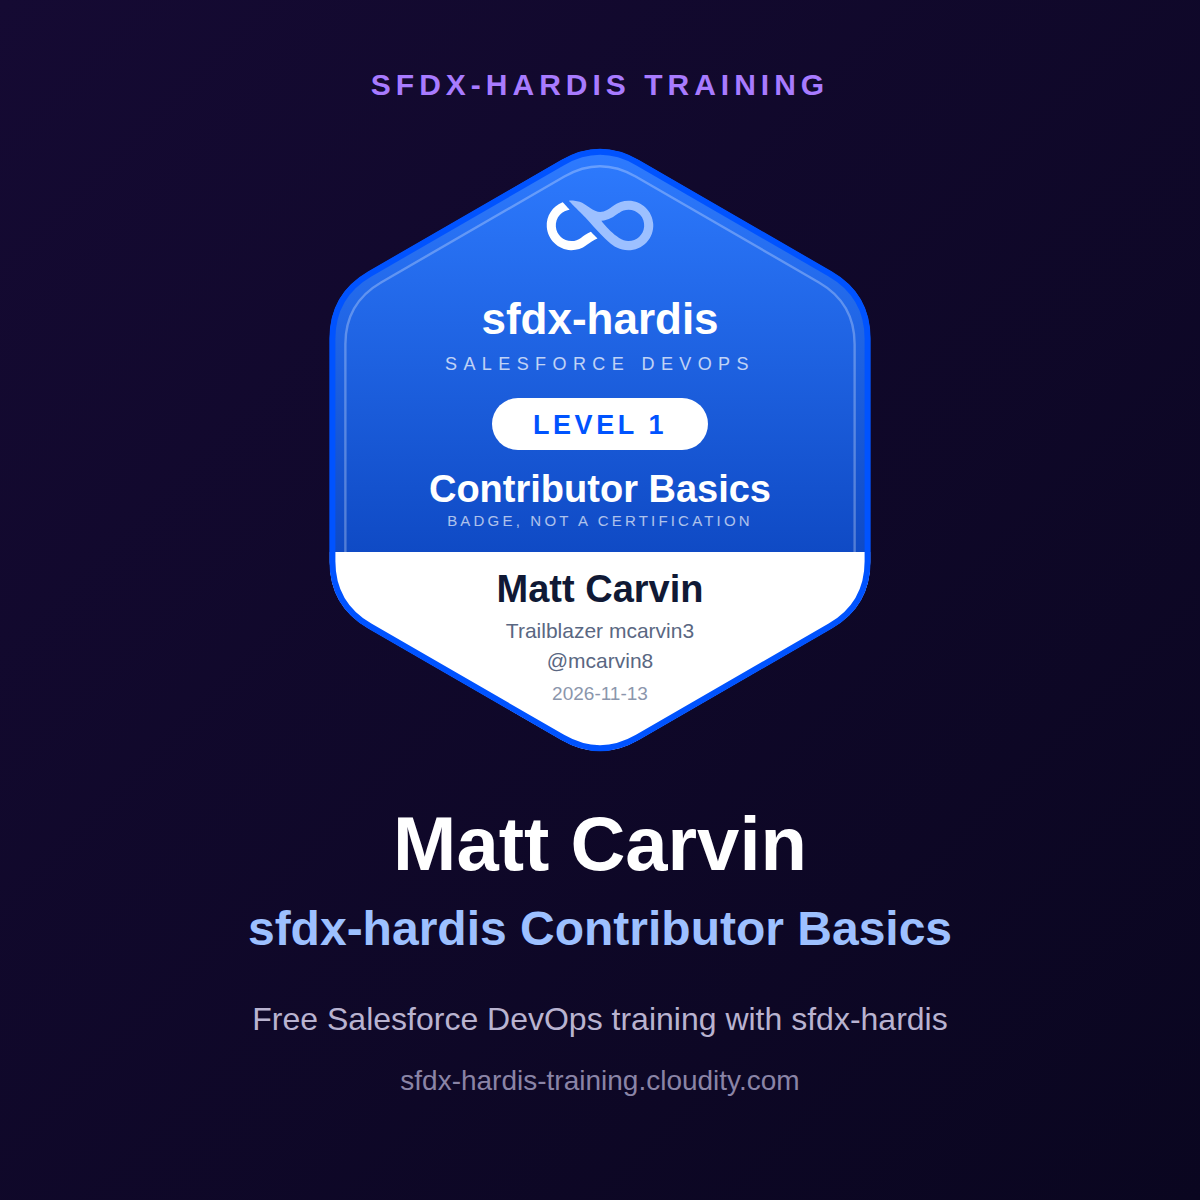
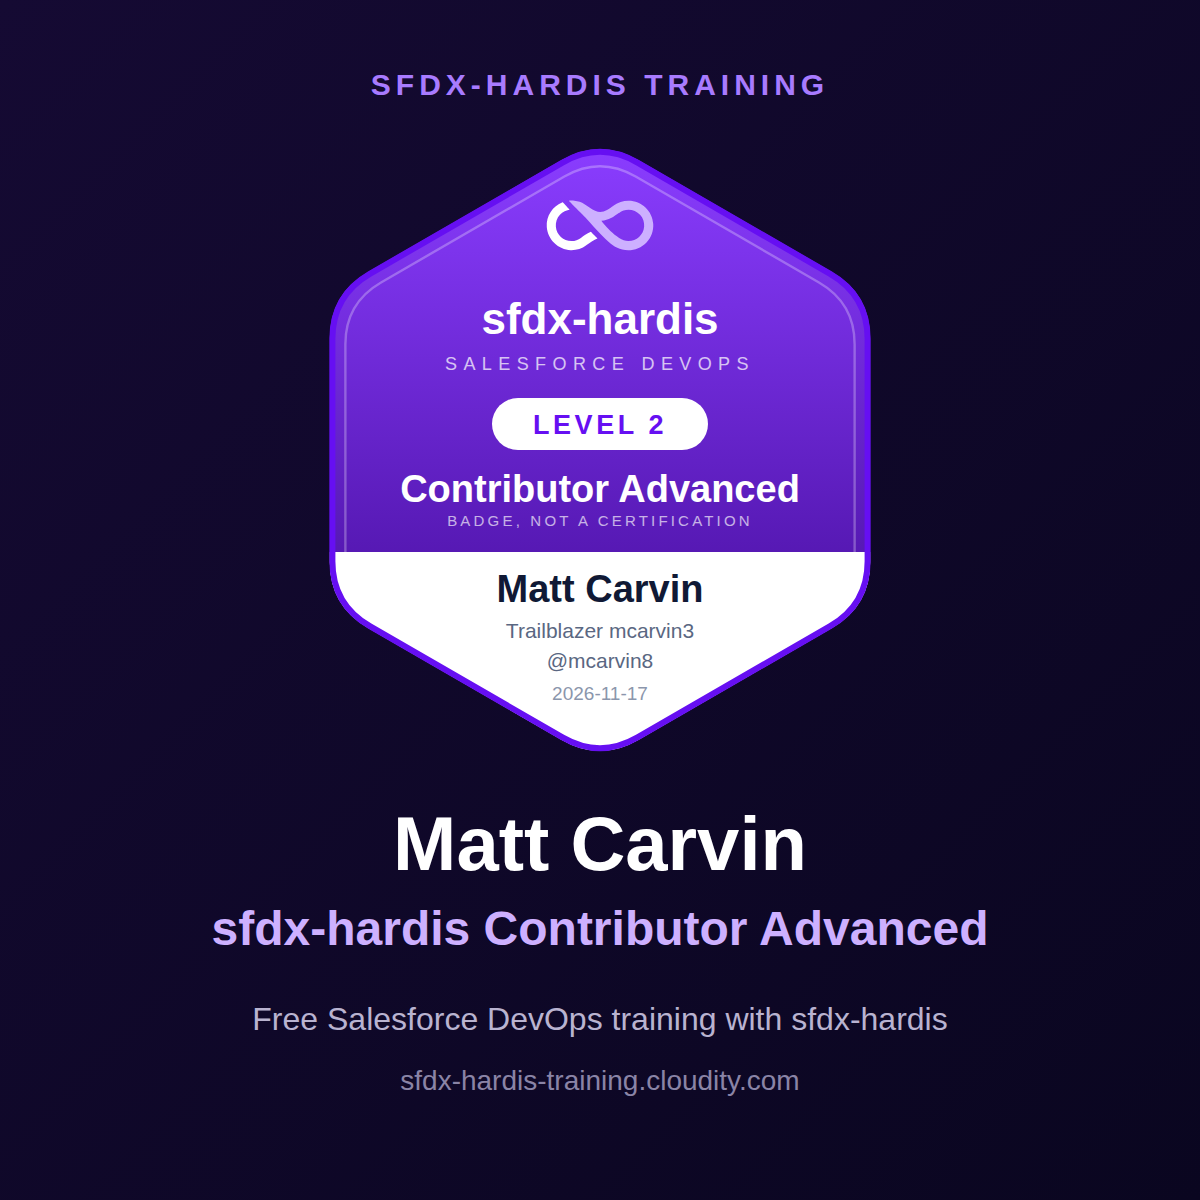
badge: level 2 for mcarvin3 (mcarvin8)

diff --git a/STATS.md b/STATS.md
@@ -2,7 +2,7 @@
 
 # Course statistics
 
-Read every Monday and after every badge awarded, from the public repositories of the 114 learners who set up the course, and from the badges they claimed.
+Read every Monday and after every badge awarded, from the public repositories of the 115 learners who set up the course, and from the badges they claimed.
 Last update: 2026-11-17.
 
 ## Started and completed
@@ -11,8 +11,8 @@ A level is started when its first branch exists in the learner's repository, and
 
 | Level | Started | Share of learners | Completed | Share of started |
 |---|---|---|---|---|
-| Level 1 - Contributor basics | 112 | 98% | 78 | 70% |
-| Level 2 - Contributor advanced | 60 | 53% | 37 | 62% |
+| Level 1 - Contributor basics | 113 | 98% | 78 | 69% |
+| Level 2 - Contributor advanced | 62 | 54% | 38 | 61% |
 | Level 3 - Release Manager | 39 | 34% | 20 | 51% |
 
 ## Time spent
@@ -22,7 +22,7 @@ The median time of the learners who went through, next to the estimate each lab 
 | Level | First estimate | Median | Fastest | Learners |
 |---|---|---|---|---|
 | Level 1 - Contributor basics | 1 h 30 | 1 h 27 | 33 min | 71 |
-| Level 2 - Contributor advanced | 4 h | 8 h 09 | 4 h 03 | 33 |
+| Level 2 - Contributor advanced | 4 h | 8 h 08 | 3 h 52 | 34 |
 | Level 3 - Release Manager | 6 h 55 | 10 h 11 | 2 h 56 | 14 |
 
 ### Level 1 - Contributor basics
@@ -36,14 +36,14 @@ The median time of the learners who went through, next to the estimate each lab 
 
 | Labs | First estimate | Median | Fastest | Learners |
 |---|---|---|---|---|
-| Labs 2.1 and 2.2 | 40 min | 1 h 12 | 26 min | 48 |
-| Lab 2.3 | 30 min | 51 min | 15 min | 47 |
-| Lab 2.4 | 30 min | 1 h 09 | 20 min | 40 |
-| Lab 2.5 | 30 min | 26 min | 7 min | 39 |
-| Lab 2.6 | 25 min | 28 min | 10 min | 39 |
-| Lab 2.7 | 35 min | 47 min | 13 min | 37 |
-| Lab 2.8 | 20 min | 27 min | 7 min | 36 |
-| Lab 2.9 | 30 min | 48 min | 12 min | 37 |
+| Labs 2.1 and 2.2 | 40 min | 1 h 12 | 26 min | 50 |
+| Lab 2.3 | 30 min | 51 min | 15 min | 49 |
+| Lab 2.4 | 30 min | 1 h 09 | 20 min | 41 |
+| Lab 2.5 | 30 min | 26 min | 7 min | 40 |
+| Lab 2.6 | 25 min | 27 min | 10 min | 40 |
+| Lab 2.7 | 35 min | 46 min | 13 min | 38 |
+| Lab 2.8 | 20 min | 27 min | 7 min | 37 |
+| Lab 2.9 | 30 min | 48 min | 12 min | 38 |
 
 ### Level 3 - Release Manager
 
@@ -70,15 +70,15 @@ From the learners who ran **Check my work** at the end of each lab: their receip
 | Lab 1.5 | 20 min | 16 min | 5 min | 42 |
 | Lab 1.6 | 20 min | 19 min | 5 min | 41 |
 | Lab 1.7 | 25 min | 27 min | 7 min | 44 |
-| Lab 2.1 | 15 min | 37 min | 12 min | 17 |
-| Lab 2.2 | 25 min | 35 min | 17 min | 17 |
-| Lab 2.3 | 30 min | 42 min | 15 min | 17 |
-| Lab 2.4 | 30 min | 1 h 10 | 20 min | 17 |
-| Lab 2.5 | 30 min | 26 min | 9 min | 17 |
-| Lab 2.6 | 25 min | 29 min | 10 min | 17 |
-| Lab 2.7 | 35 min | 43 min | 25 min | 17 |
-| Lab 2.8 | 20 min | 27 min | 10 min | 17 |
-| Lab 2.9 | 30 min | 48 min | 19 min | 17 |
+| Lab 2.1 | 15 min | 35 min | 12 min | 18 |
+| Lab 2.2 | 25 min | 35 min | 17 min | 18 |
+| Lab 2.3 | 30 min | 42 min | 15 min | 18 |
+| Lab 2.4 | 30 min | 1 h 08 | 20 min | 18 |
+| Lab 2.5 | 30 min | 25 min | 9 min | 18 |
+| Lab 2.6 | 25 min | 28 min | 10 min | 18 |
+| Lab 2.7 | 35 min | 42 min | 22 min | 18 |
+| Lab 2.8 | 20 min | 25 min | 10 min | 18 |
+| Lab 2.9 | 30 min | 47 min | 19 min | 18 |
 | Lab 3.1 | 50 min | 1 h 39 | 26 min | 14 |
 | Lab 3.2 | 25 min | 26 min | 12 min | 15 |
 | Lab 3.3 | 45 min | 1 h 15 | 22 min | 15 |

diff --git a/labs/fr/level-2-contributor-advanced/index.md b/labs/fr/level-2-contributor-advanced/index.md
@@ -4,12 +4,12 @@ description: "Affrontez ce que les vraies livraisons Salesforce vous envoient : 
 id: l2-home
 level: 2
 lang: fr
-source_rev: "0b33f8e6325c5bd2c5877fc32c020f83ab16a9fe"
+source_rev: "e197c91bfce4f8e9d21bdf4f83ea3dda7676717a"
 ---
 
 # Niveau 2 - Contributeur Salesforce DevOps avancé
 
-**Durée** : environ 5 h 45.<!-- observed --> Observé sur les Labs 2.1 à 2.9 : médiane 8 h 09, 33 participants, le plus rapide 4 h 03.<!-- /observed -->
+**Durée** : environ 5 h 45.<!-- observed --> Observé sur les Labs 2.1 à 2.9 : médiane 8 h 08, 34 participants, le plus rapide 3 h 52.<!-- /observed -->
 
 **Prérequis** : le [Niveau 1](../level-1-contributor-basics/index.md). Pas facultatif : chaque lab
 d'ici suppose que la boucle est automatique pour vous.
@@ -36,7 +36,7 @@ jours.
 | [2.1](2-1-backpromote-your-teammates-work.md)                         | Backpromote : remettre votre org de dev au niveau de l'équipe           | 35 min |
 | [2.2](2-2-fix-a-missing-dependency-deployment-error.md)               | Corriger une erreur de déploiement due à une dépendance manquante       | 35 min |
 | [2.3](2-3-fix-broken-records-with-an-apex-deployment-action.md)       | Réparer des enregistrements cassés avec une deployment action Apex      | 40 min |
-| [2.4](2-4-ship-reference-data-and-a-batch-with-deployment-actions.md) | Livrer des données de référence et un batch avec des deployment actions | 1 h 10 |
+| [2.4](2-4-ship-reference-data-and-a-batch-with-deployment-actions.md) | Livrer des données de référence et un batch avec des deployment actions | 1 h 05 |
 | [2.5](2-5-pass-code-quality-and-apex-test-coverage.md)                | Passer la barrière de qualité de code et la couverture de tests Apex    | 25 min |
 | [2.6](2-6-permission-sets-and-profiles.md)                            | Permission sets, profils, et pourquoi une autorisation disparaît        | 25 min |
 | [2.7](2-7-resolve-a-git-merge-conflict.md)                            | Résoudre un conflit de merge Git avec un collègue                       | 40 min |

diff --git a/labs/en/level-2-contributor-advanced/index.md b/labs/en/level-2-contributor-advanced/index.md
@@ -8,7 +8,7 @@ lang: en
 
 # Level 2 - Salesforce DevOps contributor advanced
 
-**Time**: about 5 h 45.<!-- observed --> Observed on Labs 2.1 to 2.9: median 8 h 09, 33 learners, fastest 4 h 03.<!-- /observed -->
+**Time**: about 5 h 45.<!-- observed --> Observed on Labs 2.1 to 2.9: median 8 h 08, 34 learners, fastest 3 h 52.<!-- /observed -->
 
 **Before you start**: [Level 1](../level-1-contributor-basics/index.md). Not optional: every lab here assumes the loop
 is automatic for you.
@@ -33,7 +33,7 @@ something breaks, you know where to look and what to do, and you lose minutes in
 | [2.1](2-1-backpromote-your-teammates-work.md)                         | Backpromote: catch your dev org up with the team        | 35 min |
 | [2.2](2-2-fix-a-missing-dependency-deployment-error.md)               | Fix a deployment error caused by a missing dependency   | 35 min |
 | [2.3](2-3-fix-broken-records-with-an-apex-deployment-action.md)       | Fix broken records with an Apex deployment action       | 40 min |
-| [2.4](2-4-ship-reference-data-and-a-batch-with-deployment-actions.md) | Ship reference data and a batch with deployment actions | 1 h 10 |
+| [2.4](2-4-ship-reference-data-and-a-batch-with-deployment-actions.md) | Ship reference data and a batch with deployment actions | 1 h 05 |
 | [2.5](2-5-pass-code-quality-and-apex-test-coverage.md)                | Pass the code quality gate and Apex test coverage       | 25 min |
 | [2.6](2-6-permission-sets-and-profiles.md)                            | Permission sets, profiles and why a grant disappears    | 25 min |
 | [2.7](2-7-resolve-a-git-merge-conflict.md)                            | Resolve a Git merge conflict with a teammate            | 40 min |

diff --git a/labs/fr/level-2-contributor-advanced/2-1-backpromote-your-teammates-work.md b/labs/fr/level-2-contributor-advanced/2-1-backpromote-your-teammates-work.md
@@ -5,7 +5,7 @@ description: "Votre org de développement est en retard sur integration. Faites-
 level: 2
 lab: 1
 lang: fr
-source_rev: "87368b7e85b3dd8cf90b33b28e998314c23dce63"
+source_rev: "9cff159c29f579f3ff8de94876a4d70a0870c0dc"
 screenshots:
   - annotated/vscode/sidebar-commands-custom-menu-2--training-menu
   - annotated/web/github-pr-files
@@ -27,7 +27,7 @@ depends_on:
 
 **Niveau** : 2 Contributeur avancé
 
-**Durée** : ~35 min<!-- observed --> (observé : médiane 37 min, 17 participants, le plus rapide 12 min)<!-- /observed -->
+**Durée** : ~35 min<!-- observed --> (observé : médiane 35 min, 18 participants, le plus rapide 12 min)<!-- /observed -->
 
 **Vous allez** : rapatrier dans votre propre org de dev la story mergée par un collègue, décider
 quoi garder quand l'outil vous le demande, et apprendre ce qu'un backpromote ne fera jamais pour

diff --git a/labs/fr/level-2-contributor-advanced/2-7-resolve-a-git-merge-conflict.md b/labs/fr/level-2-contributor-advanced/2-7-resolve-a-git-merge-conflict.md
@@ -5,7 +5,7 @@ description: "Une collègue a mergé en premier sur le même flow et le même pe
 level: 2
 lab: 7
 lang: fr
-source_rev: "41a4a39bbd93099266d46fa9466632374ac687d0"
+source_rev: "2b7c4314c8838edefda7501329b6d42bfc67cd37"
 screenshots:
   - annotated/salesforce/flow-builder-assign-crew
   - annotated/salesforce/flow-builder-assign-crew-full
@@ -30,7 +30,7 @@ depends_on:
 
 **Niveau** : 2 Contributeur avancé
 
-**Durée** : ~40 min<!-- observed --> (observé : médiane 43 min, 17 participants, le plus rapide 25 min)<!-- /observed -->
+**Durée** : ~40 min<!-- observed --> (observé : médiane 42 min, 18 participants, le plus rapide 22 min)<!-- /observed -->
 
 **Vous allez** : affronter un vrai conflit de merge sur deux fichiers qui entrent en conflit de façon
 très différente, et résoudre les deux sans perdre le travail de personne.

diff --git a/labs/fr/level-2-contributor-advanced/2-2-fix-a-missing-dependency-deployment-error.md b/labs/fr/level-2-contributor-advanced/2-2-fix-a-missing-dependency-deployment-error.md
@@ -5,7 +5,7 @@ description: "Modifiez un flow Salesforce existant, puis lisez correctement un c
 level: 2
 lab: 2
 lang: fr
-source_rev: "59a43fbde03c27fbe7bbbb6d3d62f520c716c652"
+source_rev: "60791fb57f7be032daae1582b886c3de72642db8"
 screenshots:
   - annotated/vscode/package-xml-filtered
   - annotated/vscode/editor-field-file
@@ -31,7 +31,7 @@ depends_on:
 
 **Niveau** : 2 Contributeur avancé
 
-**Durée** : ~35 min<!-- observed --> (observé : médiane 35 min, 17 participants, le plus rapide 17 min)<!-- /observed -->
+**Durée** : ~35 min<!-- observed --> (observé : médiane 35 min, 18 participants, le plus rapide 17 min)<!-- /observed -->
 
 **Vous allez** : modifier un flow qui tourne déjà en production, rencontrer votre premier contrôle de
 déploiement en échec, lire l'erreur correctement, et trouver ce que votre package a oublié.

diff --git a/labs/fr/level-2-contributor-advanced/2-8-recover-from-committing-the-wrong-metadata.md b/labs/fr/level-2-contributor-advanced/2-8-recover-from-committing-the-wrong-metadata.md
@@ -5,7 +5,7 @@ description: "Vous avez publié bien plus que votre story. Voyez ce que cela fai
 level: 2
 lab: 8
 lang: fr
-source_rev: "97c4635f37b0dbcd15da04a7a95829d07efc0bea"
+source_rev: "d48739167f39ed33b1e66f483f10aa25bef2ebdd"
 screenshots:
   - annotated/vscode/pipeline-cards--new-user-story
   - annotated/vscode/metadata-retriever-recent-changes--pick-rows
@@ -23,7 +23,7 @@ depends_on:
 
 **Niveau** : 2 Contributeur avancé
 
-**Durée** : ~25 min<!-- observed --> (observé : médiane 27 min, 17 participants, le plus rapide 10 min)<!-- /observed -->
+**Durée** : ~25 min<!-- observed --> (observé : médiane 25 min, 18 participants, le plus rapide 10 min)<!-- /observed -->
 
 **Vous allez** : sur-sélectionner exprès au moment de publier, voir ce que cela fait à une Pull
 Request, et apprendre les deux chemins de récupération.

diff --git a/labs/fr/level-2-contributor-advanced/2-5-pass-code-quality-and-apex-test-coverage.md b/labs/fr/level-2-contributor-advanced/2-5-pass-code-quality-and-apex-test-coverage.md
@@ -5,7 +5,7 @@ description: "Corrigez une trouvaille PMD et la couverture de code Apex qui bloq
 level: 2
 lab: 5
 lang: fr
-source_rev: "2f386b1b9dd5e5ad648ba643f272bc589ea1db70"
+source_rev: "e7d0a2446c0b2b4151de9d0e4a71a1148036e382"
 screenshots:
   - annotated/vscode/pipeline-cards--new-user-story
   - annotated/vscode/org-monitoring--apex-tests
@@ -21,7 +21,7 @@ depends_on:
 
 **Niveau** : 2 Contributeur avancé
 
-**Durée** : ~25 min<!-- observed --> (observé : médiane 26 min, 17 participants, le plus rapide 9 min)<!-- /observed -->
+**Durée** : ~25 min<!-- observed --> (observé : médiane 25 min, 18 participants, le plus rapide 9 min)<!-- /observed -->
 
 **Vous allez** : être bloqué deux fois par des robots, corriger les deux correctement plutôt que de
 les contourner, et apprendre à lancer les contrôles avant de pousser.

diff --git a/labs/fr/level-2-contributor-advanced/2-4-ship-reference-data-and-a-batch-with-deployment-actions.md b/labs/fr/level-2-contributor-advanced/2-4-ship-reference-data-and-a-batch-with-deployment-actions.md
@@ -5,7 +5,7 @@ description: "Un déploiement vert n'est pas une fonctionnalité qui marche. Liv
 level: 2
 lab: 4
 lang: fr
-source_rev: "732b2aba6858e0de45bba94f23b5f9bdf308a104"
+source_rev: "b8809f4b97eeb1827296e6016d7f4b615f2369de"
 screenshots:
   - annotated/vscode/sidebar-commands-custom-menu-2--lab-records
   - annotated/salesforce/crew-capacity-records
@@ -28,7 +28,7 @@ depends_on:
 
 **Niveau** : 2 Contributeur avancé
 
-**Durée** : ~1 h 10<!-- observed --> (observé : médiane 1 h 10, 17 participants, le plus rapide 20 min)<!-- /observed -->
+**Durée** : ~1 h 05<!-- observed --> (observé : médiane 1 h 08, 18 participants, le plus rapide 20 min)<!-- /observed -->
 
 **Vous allez** : rencontrer la pire espèce d'échec, celle où rien n'échoue, et la corriger avec trois
 deployment actions de trois types différents.

diff --git a/labs/fr/level-2-contributor-advanced/2-6-permission-sets-and-profiles.md b/labs/fr/level-2-contributor-advanced/2-6-permission-sets-and-profiles.md
@@ -5,7 +5,7 @@ description: "Une permission accordée sur un profil s'évapore après un déplo
 level: 2
 lab: 6
 lang: fr
-source_rev: "f1de18928b5fd327d784e4e2f6925e796c693e36"
+source_rev: "6bb9d05826efb3328a24a025a54a155e9bc5c48e"
 screenshots:
   - annotated/vscode/pipeline-cards--new-user-story
   - annotated/vscode/pipeline-packages-menu--package-xml
@@ -22,7 +22,7 @@ depends_on:
 
 **Niveau** : 2 Contributeur avancé
 
-**Durée** : ~25 min<!-- observed --> (observé : médiane 29 min, 17 participants, le plus rapide 10 min)<!-- /observed -->
+**Durée** : ~25 min<!-- observed --> (observé : médiane 28 min, 18 participants, le plus rapide 10 min)<!-- /observed -->
 
 **Vous allez** : courir après une permission qui s'évapore entre un déploiement vert et l'org cible,
 et découvrir qu'elle a été retirée exprès.

diff --git a/labs/fr/level-2-contributor-advanced/2-3-fix-broken-records-with-an-apex-deployment-action.md b/labs/fr/level-2-contributor-advanced/2-3-fix-broken-records-with-an-apex-deployment-action.md
@@ -5,7 +5,7 @@ description: "Rendre un champ obligatoire se déploie au vert et casse les enreg
 level: 2
 lab: 3
 lang: fr
-source_rev: "9de9ce94b7ca17001cebf9a2f0b9759a4f86b7ed"
+source_rev: "a4ed59101c00cfd9479e4aead29dd6717022f30f"
 screenshots:
   - annotated/vscode/pipeline-cards--my-pull-request
   - annotated/vscode/pipeline-cards--new-user-story
@@ -24,7 +24,7 @@ depends_on:
 
 **Niveau** : 2 Contributeur avancé
 
-**Durée** : ~40 min<!-- observed --> (observé : médiane 42 min, 17 participants, le plus rapide 15 min)<!-- /observed -->
+**Durée** : ~40 min<!-- observed --> (observé : médiane 42 min, 18 participants, le plus rapide 15 min)<!-- /observed -->
 
 **Vous allez** : rencontrer un échec qu'aucune correction de métadonnée ne résout, et découvrir
 l'outil qui existe pour cela : une deployment action.

diff --git a/labs/fr/level-2-contributor-advanced/2-9-capstone-deliver-a-user-story-that-has-it-all.md b/labs/fr/level-2-contributor-advanced/2-9-capstone-deliver-a-user-story-that-has-it-all.md
@@ -5,7 +5,7 @@ description: "Livrez une User Story Salesforce avec une dépendance à vérifier
 level: 2
 lab: 9
 lang: fr
-source_rev: "5294067e942d380f9962d71505dea04a50b265f4"
+source_rev: "983ef558839c11ce84482df5465c92156f5b3018"
 screenshots:
   - annotated/web/github-star-megalinter
 depends_on:
@@ -20,7 +20,7 @@ depends_on:
 
 **Niveau** : 2 Contributeur avancé
 
-**Durée** : ~45 min<!-- observed --> (observé : médiane 48 min, 17 participants, le plus rapide 19 min)<!-- /observed -->
+**Durée** : ~45 min<!-- observed --> (observé : médiane 47 min, 18 participants, le plus rapide 19 min)<!-- /observed -->
 
 **Vous allez** : livrer une story qui contient une dépendance à vérifier, une deployment action de
 données et un collègue qui travaille sur le même permission set, sans pas-à-pas.
